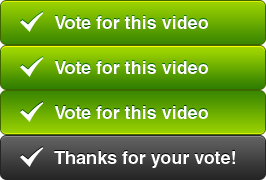
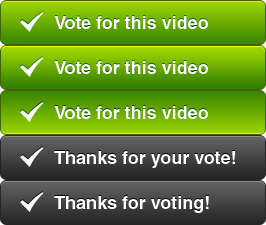
updates from Paul

diff --git a/templates/3/localtv/view_video.html b/templates/3/localtv/view_video.html
@@ -19,7 +19,7 @@ along with Miro Community.  If not, see <http://www.gnu.org/licenses/>.
 {% endcomment %}
 
 
-{% load video i18n comments filters uploadtemplate_tags editable_widget localtv_thumbnail email_share_tags cache video_list %}
+{% load video i18n comments filters uploadtemplate_tags editable_widget localtv_thumbnail email_share_tags cache video_list voting_tags %}
 
 {% block body_id %}video{% endblock %}
 {% block body_class %}video{% endblock %}
@@ -62,13 +62,25 @@ along with Miro Community.  If not, see <http://www.gnu.org/licenses/>.
       <a id="miro" href="http://subscribe.getmiro.com/?url1=http%3A//{{ sitelocation.site.domain|urlencode }}{{ new_rss|urlencode }}"><em class="icon">f</em> Subscribe with Miro</a>
     </div><!-- // subscribe -->
     {% endcomment %}
+    {% if current_video.voting_enabled %}
     <div id="vote_contest">
-      <a class="vote_this" href="">Vote for this video</a>
-      {% comment %}
-      <a class="voted" href="">Thanks for voting!</a>
-      {% endcomment %}
-      <span id="contest_details_txt"><a href="">Contest Details</a></span>
+      {% vote_by_user user on current_video as vote %}
+      {% if not vote %}
+      {% if not user_can_vote %}
+      <span class="voted_elsewhere">Thanks for voting!</span>
+      {% else %}
+      <a rel="#overlay" class="vote_this" href="{% url localtv_video_vote current_video.pk "up" %}">Vote for this video</a>
+      {% endif %}
+      {% else %}
+      <span class="voted">Thanks for your vote!</span>
+      {% endif %}
+      {% if vote %}
+      <span id="vote_cancel"><a rel="#overlay" href="{% url localtv_video_vote current_video.pk "clear" %}">Cancel</a></span>
+      {% else %}
+      <span id="contest_details_txt"><a href="{{ contest_category.get_absolute_url }}">Contest Details</a></span>
+      {% endif %}
     </div><!-- vote_contest -->
+    {% endif %}
     
       <div id="video_title">
         {% if user_is_admin %}

diff --git a/static/3/stylesheets/video.css b/static/3/stylesheets/video.css
@@ -378,7 +378,7 @@ body.video #content #video_header_content #vote_contest a:active.vote_this {
 	background-position: 0 -90px;
 }
 
-body.video #content #video_header_content #vote_contest a.voted {
+body.video #content #video_header_content #vote_contest span.voted {
 	width: 266px;
 	height: 45px;
 	background: transparent url(../images/btn_vote_contest.png) 0 -135px no-repeat;
@@ -386,19 +386,33 @@ body.video #content #video_header_content #vote_contest a.voted {
 	display: block;
 }
 
+body.video #content #video_header_content #vote_contest span.voted_elsewhere {
+	width: 266px;
+	height: 45px;
+	background: transparent url(../images/btn_vote_contest.png) 0 -180px no-repeat;
+	text-indent: -99999px;
+	display: block;
+}
+
+body.video #content #video_header_content #vote_contest span#vote_cancel,
 body.video #content #video_header_content #vote_contest span#contest_details_txt {
-	background: transparent url(../images/icon_contest_details.png) right 9px no-repeat;
 	padding: 10px 20px 0 0;
 	display: block;
 	text-align: right;
+    
+}
+body.video #content #video_header_content #vote_contest span#contest_details_txt {
+	background: transparent url(../images/icon_contest_details.png) right 9px no-repeat;
 }
 
+body.video #content #video_header_content #vote_contest span#vote_cancel a,
 body.video #content #video_header_content #vote_contest span#contest_details_txt a {
 	color: #333;
 	font-size: 12px;
 	font-weight: bold;
 }
 
+body.video #content #video_header_content #vote_contest span#vote_cancel a:hover,
 body.video #content #video_header_content #vote_contest span#contest_details_txt a:hover {
 	text-decoration: underline;
 }

diff --git a/templates/3/localtv/video_listing_individual.html b/templates/3/localtv/video_listing_individual.html
@@ -18,7 +18,7 @@ along with Miro Community.  If not, see <http://www.gnu.org/licenses/>.
 {% endcomment %}
 
 
-{% load comments i18n localtv_thumbnail filters uploadtemplate_tags editors_comment %}
+{% load comments i18n localtv_thumbnail filters uploadtemplate_tags editors_comment voting_tags %}
 
 
 
@@ -46,10 +46,18 @@ along with Miro Community.  If not, see <http://www.gnu.org/licenses/>.
         {% endif %}</li>
         <li class="contributed clear">{% with video as instance %}{% include "localtv/inline_edit/video_authors.html" %}{% endwith %}</li>
       </ul>
+      {% if video.voting_enabled %}
       <div class="contest_vote_btn">
-        {% comment %}<a class="vote_this" href="">Vote for this video</a>{% endcomment %}
-        
-        <a class="voted" href="">Vote for this video</a>
-        
+        {% if user_can_vote %}
+        {% vote_by_user user on video as vote %}
+        {% if not vote %}
+        <a rel="#overlay" class="vote_this" href="{% url localtv_video_vote video.pk "up" %}">Vote for this video</a>
+        {% else %}
+        <a rel="#overlay" class="voted" href="{% url localtv_video_vote video.pk "clear" %}">Thanks for voting!</a>
+        {% endif %}
+        {% else %}
+        <span class="voted_elsewhere">Thanks for voting!</span>
+        {% endif %}
+      {% endif %}
       </div>
     </div><!-- // video_meta -->

diff --git a/static/3/stylesheets/contest.css b/static/3/stylesheets/contest.css
@@ -183,3 +183,11 @@ body.disposable-film-fest-pgh ul.video_list li.video_item .video_meta .contest_v
 	text-indent: -99999px;
 	display: block;
 }
+
+body.disposable-film-fest-pgh ul.video_list li.video_item .video_meta .contest_vote_btn span.voted_elsewhere {
+	width: 266px;
+	height: 45px;
+	background: transparent url(../images/btn_vote_contest.png) 0 -180px no-repeat;
+	text-indent: -99999px;
+	display: block;
+}
